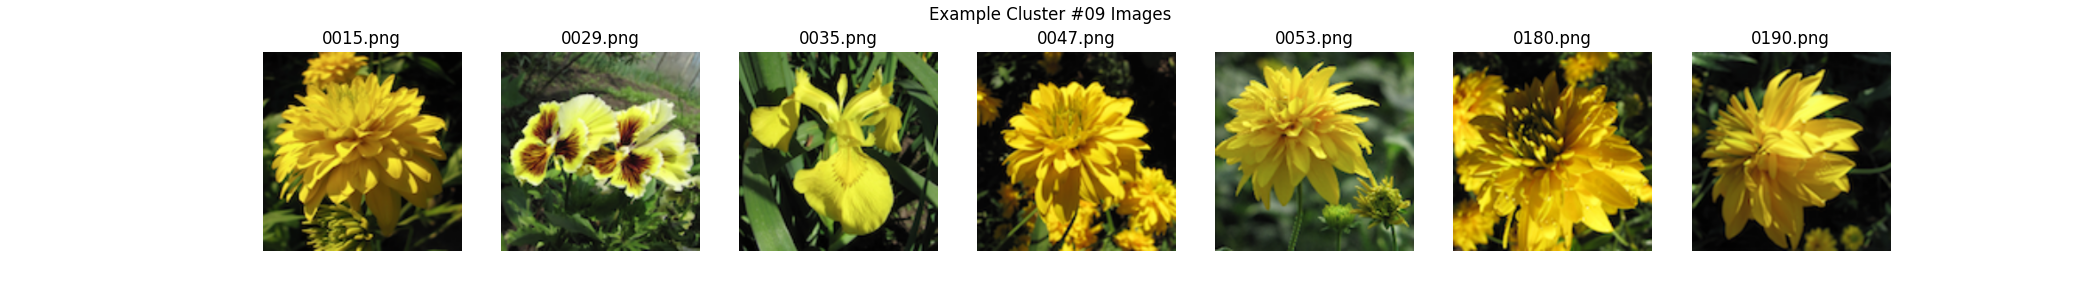
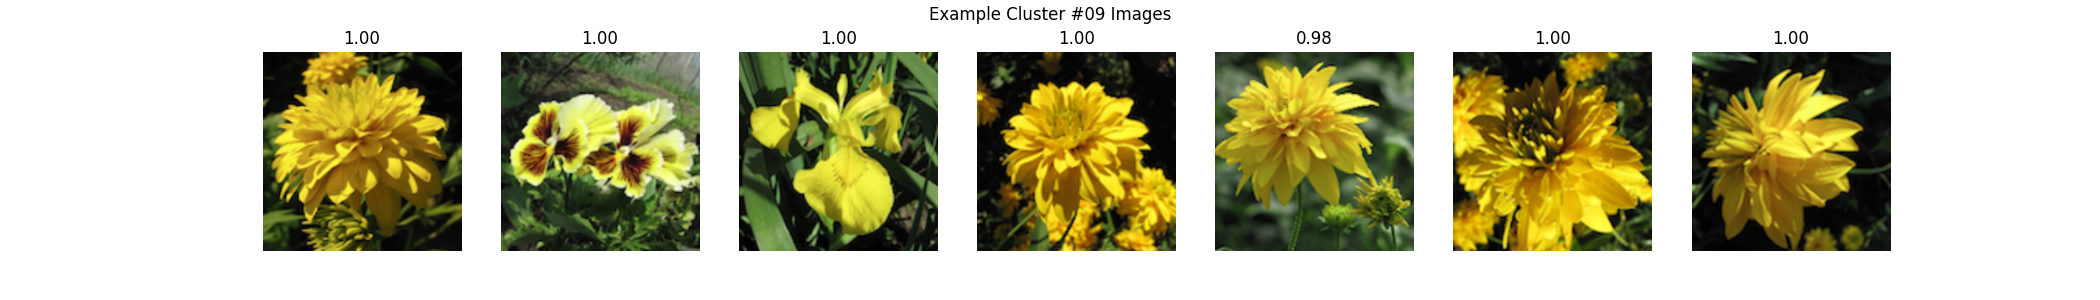
push

diff --git a/modules/dash_ui.py b/modules/dash_ui.py
@@ -6,7 +6,7 @@ from sklearn.decomposition import PCA
 from sklearn.manifold import TSNE
 from sklearn.cluster import KMeans, DBSCAN, MeanShift, SpectralClustering, AgglomerativeClustering, OPTICS, HDBSCAN
 from deep_feature_extraction import DeepFeatureExtractor, open_data_from_directory, extract_dataset_features
-from transformers import AutoImageProcessor, Dinov2Model
+# from transformers import AutoImageProcessor, Dinov2Model
 from sklearn.neighbors import NearestNeighbors
 from PIL import Image
 import io
@@ -34,16 +34,18 @@ def main():
     # region Clustering
     hdbscan = HDBSCAN(min_cluster_size=4, min_samples=None, cluster_selection_epsilon=0.0, metric='euclidean',
                       algorithm='auto', cluster_selection_method='eom', allow_single_cluster=False,
-                      store_centers="centroid")
+                      store_centers="medoid")
     hdbscan.fit(reduced_features)
     cluster_probabilities = hdbscan.probabilities_
     cluster_labels = hdbscan.labels_
+    cluster_medoids = hdbscan.medoids_
 
     fig = plt.figure()
     ax = fig.add_subplot()
     for l in np.unique(cluster_labels):
         indices_where_label = np.where(cluster_labels == l)
         ax.scatter(reduced_features[indices_where_label, 0], reduced_features[indices_where_label, 1], label=l)
+    ax.scatter(cluster_medoids[:, 0], cluster_medoids[:, 1], c="r")
     ax.legend()
     ax.grid(True)
     fig.suptitle("TSNE Projected Data Points")
@@ -66,8 +68,8 @@ def main():
             if cluster_labels[random_idx] == l:
                 axes.ravel()[idx].imshow(dataset_images[random_idx])
                 axes.ravel()[idx].axis('off')
-                axes.ravel()[idx].title.set_text("{}".format(dataset_image_paths[random_idx].split("\\")[-1]))
-                # axes.ravel()[idx].title.set_text("{:.2f}".format(cluster_probabilities[random_idx]))
+                # axes.ravel()[idx].title.set_text("{}".format(dataset_image_paths[random_idx].split("\\")[-1]))
+                axes.ravel()[idx].title.set_text("{:.2f}".format(cluster_probabilities[random_idx]))
                 idx += 1
             if idx == len_x_axis * len_y_axis:
                 break
@@ -78,6 +80,96 @@ def main():
     plt.close(fig)
     # endregion
 
+    # region Cluster Splitting
+    # Idea 1: Calculate the distances between each point in a cluster. Then compare the images for points the
+    # furthest apart. Either cluster again only for these points or calculate membership depending on distance.
+    for idx, l in enumerate(label_unique):
+        if l == -1:
+            continue
+        indices_in_label = np.where(cluster_labels == l)[0]
+        features_in_label = reduced_features[indices_in_label]
+        distances = scipy.spatial.distance.cdist(features_in_label, features_in_label)
+        # print(np.argmax(dist_reduced))
+        argsort_indices = np.argsort(-distances.flatten())
+        argsort_indices = [np.unravel_index(ax, distances.shape) for ax in argsort_indices]
+
+        fig, axes = plt.subplots(nrows=4, ncols=2, figsize=(2 * 2, 2 * 4))
+        for i in range(4):
+            image1, image2 = dataset_images[indices_in_label[argsort_indices[i*2][0]]], \
+                dataset_images[indices_in_label[argsort_indices[i*2][1]]]
+
+            axes[i][0].imshow(image1)
+            axes[i][0].title.set_text("Image IDX: {}".format(argsort_indices[i * 2][0]))
+            axes[i][0].axis('off')
+
+            axes[i][1].imshow(image2)
+            axes[i][1].title.set_text("Image IDX: {}".format(argsort_indices[i * 2][1]))
+            axes[i][1].axis('off')
+    plt.show()
+
+    # Idea 2: Calculate the variance in each of the 5 reduced feature dimensions per cluster. Get the dimension with
+    # the highest variance and compare images the furthest apart in that dimension. Then again, re-cluster with one
+    # of the methods above.
+    for idx, l in enumerate(label_unique):
+        if l == -1:
+            continue
+        indices_in_label = np.where(cluster_labels == l)[0]
+        features_in_label = reduced_features[indices_in_label]
+        variances = np.var(features_in_label, axis=0)
+        variance_argmax = np.argmax(variances)
+        expanded_features = np.expand_dims(features_in_label[:, variance_argmax], axis=1)
+        distances = scipy.spatial.distance.cdist(expanded_features, expanded_features)
+        # print(np.argmax(dist_reduced))
+        argsort_indices = np.argsort(-distances.flatten())
+        argsort_indices = [np.unravel_index(ax, distances.shape) for ax in argsort_indices]
+
+        fig, axes = plt.subplots(nrows=4, ncols=2, figsize=(2 * 2, 2 * 4))
+        for i in range(4):
+            image1, image2 = dataset_images[indices_in_label[argsort_indices[i * 2][0]]], \
+                dataset_images[indices_in_label[argsort_indices[i * 2][1]]]
+
+            axes[i][0].imshow(image1)
+            axes[i][0].title.set_text("Image IDX: {}".format(argsort_indices[i * 2][0]))
+            axes[i][0].axis('off')
+
+            axes[i][1].imshow(image2)
+            axes[i][1].title.set_text("Image IDX: {}".format(argsort_indices[i * 2][1]))
+            axes[i][1].axis('off')
+        plt.show()
+    # endregion
+
+
+    # region Cluster Fusion
+    # Idea: For each cluster medoid calculate the distance to other medoids. Then take the closest samples of two
+    # clusters and ask if they should be merged.
+    for idx, l in enumerate(label_unique):
+        if l == -1:
+            continue
+        target_cluster_medoid = cluster_medoids[idx-1]
+        cluster_distances = scipy.spatial.distance.cdist(target_cluster_medoid, cluster_medoids)
+        cluster_dist_sorted = np.argsort(-cluster_distances)
+
+        target_cluster_indices = np.where(cluster_labels == l)[0]
+
+        fig, axes = plt.subplots(nrows=3, ncols=4, figsize=(4 * 2, 3 * 4))
+        for i in range(3):
+            indices_in_label = np.where(cluster_labels == cluster_dist_sorted[i+1]-1)[0]
+
+            cluster_point_distances = scipy.spatial.distance.cdist(reduced_features[target_cluster_indices],
+                                                                   reduced_features[indices_in_label])
+
+            image1, image2 = dataset_images[indices_in_label[argsort_indices[i*2][0]]], \
+                dataset_images[indices_in_label[argsort_indices[i*2][1]]]
+
+            axes[i][0].imshow(image1)
+            axes[i][0].title.set_text("Image IDX: {}".format(argsort_indices[i * 2][0]))
+            axes[i][0].axis('off')
+
+            axes[i][1].imshow(image2)
+            axes[i][1].title.set_text("Image IDX: {}".format(argsort_indices[i * 2][1]))
+            axes[i][1].axis('off')
+    plt.show()
+    # endregion
     # region Outlier Queue
     outlier_indices = np.where(cluster_labels == -1)[0]
     for idx in outlier_indices:
@@ -109,8 +201,7 @@ def main():
         plt.show()
     # endregion
 
-
-
+    # region SVM
     x_train, y_train = [], []
     for idx, (feat, label) in enumerate(zip(image_features, cluster_labels)):
         if label != -1:
@@ -124,13 +215,14 @@ def main():
     lin_clf.fit(x_train, y_train)
 
     svc_labels = lin_clf.predict(image_features)
+    # endregion
 
+    # region Points that Changed
     images_that_changed_label = []
     old_label = []
     new_label = []
     for idx, (svc_prediction, cluster_prediction) in enumerate(zip(svc_labels, cluster_labels)):
         if svc_prediction != cluster_prediction:
-            print("CHANGED")
             images_that_changed_label.append(dataset_images[idx])
             old_label.append(cluster_prediction)
             new_label.append(svc_prediction)
@@ -148,6 +240,7 @@ def main():
         fig.suptitle("Images that changed labels")
     plt.show()
     plt.close(fig)
+    # endregion
 
 
     """
